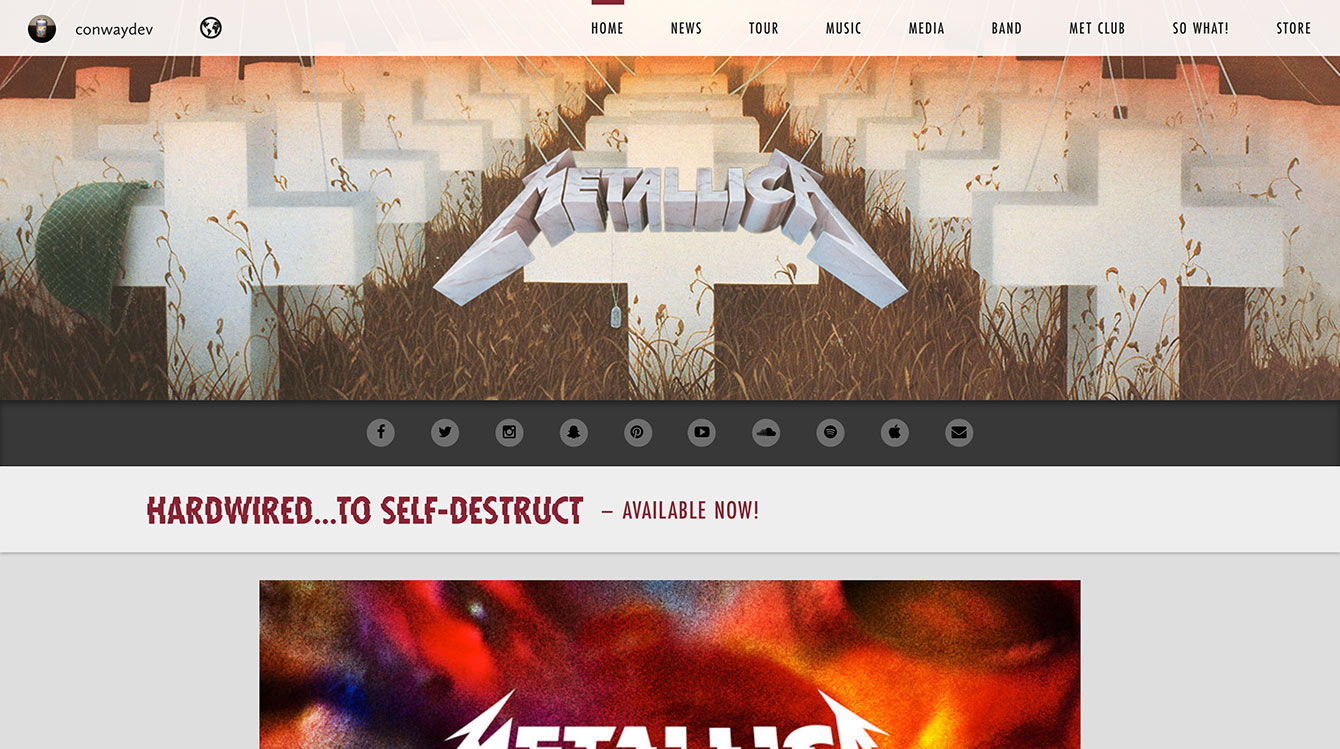
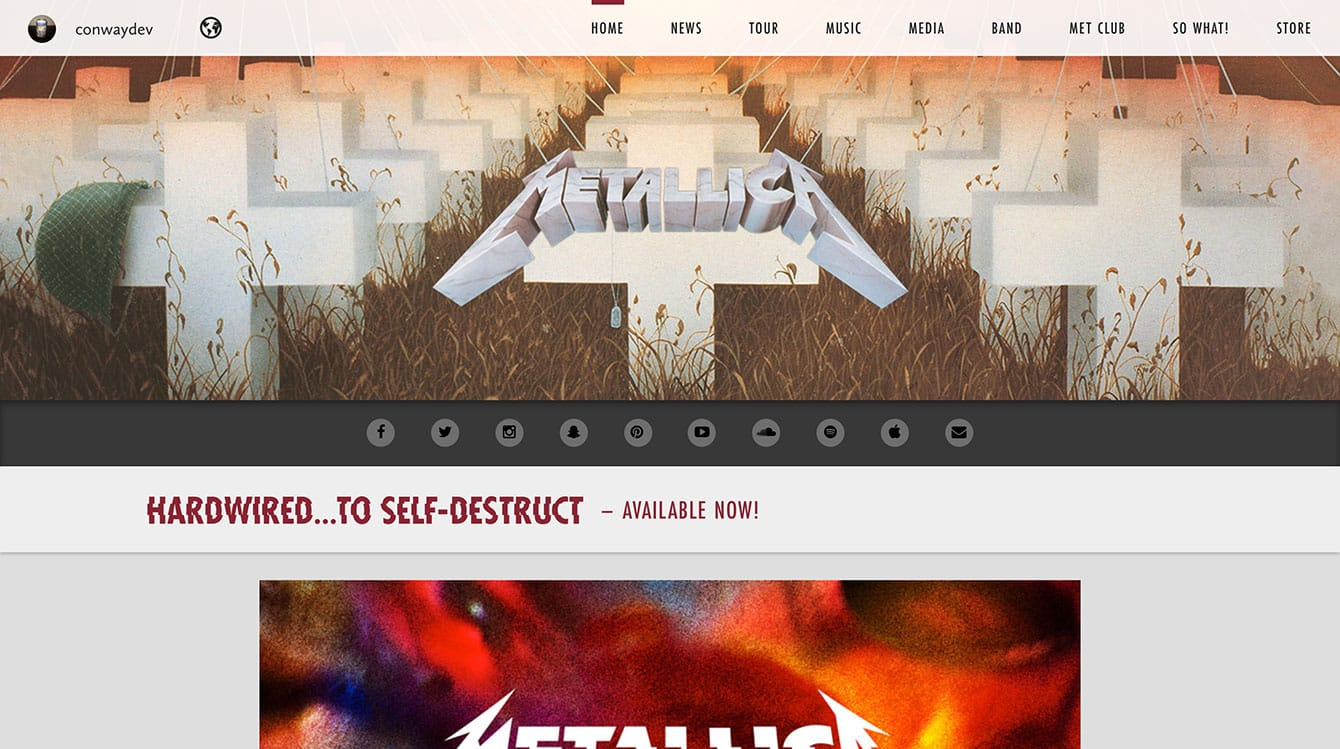
Optimize images and add back in includes

diff --git a/index.html b/index.html
@@ -41,11 +41,11 @@ layout: default
                 <h2>Metallica</h2>
 
                 <p>
-                    My last project I got to work on at StageBloc was Metallica's website, specifically creating patterns that we would use throughout the entire website. When working at StageBloc I had the opportunity to work on many large-scale projects, but Metallica was easily the largest.
+                    My last project I got to work on at StageBloc was Metallica's website, specifically creating components that we would use throughout the entire website. While working at StageBloc I had the opportunity to work on many large-scale projects, but Metallica was easily the largest.
                 </p>
 
                 <p>
-                    Before we started the project we realized that creating a pattern library was a necessity in order to make sure that the website could remain consistent in design. It was our first time creating a pattern library for a theme, but ended up proving very beneficial, not just for the scalability for development, but also making it easier to work with our designer and stakeholders.
+                    Before we started the project we realized that creating a components library was a necessity in order to make sure that the website could remain consistent in design. It was our first time creating a components library for a theme, but ended up proving very beneficial, not just for the scalability for development, but also making it easier to work with our designer and stakeholders.
                 </p>
 
                 <p>
@@ -63,11 +63,7 @@ layout: default
                 <h2>Sprout Social Insights</h2>
 
                 <p>
-                    Insights is the <a href="//sproutsocial.com/insights/">Sprout Social WordPress blog</a> where content creators are able to share industry knowledge of Social Media as well as product announcements for the platform. Insights had been around for years before I started at Sprout Social, and like many WordPress sites had gone through a lot of iterations within the same theme. When talks of a redesign came around I was quick to make a case for a complete redevelopment of the theme. I wanted to make sure that we could create a WordPress theme that would be maintainable by several developers, as well as performance optimized for readers.
-                </p>
-
-                <p>
-                    When the development was wrapped up we ran performance metrics and saw that the redevelopment was able to reduce the page load for the blog index from an average of 3-5 seconds to <strong>100 milliseconds</strong>. The redevelopment reduced the network requests by <strong>65%</strong>, and reduced the page, stylesheet, and script sizes dramatically. The performance benefit, along with better SEO practices showed a substantial benefit as far as our Google crawls were concerned and an overwhelming praise from our readers.
+                    Insights is the <a href="//sproutsocial.com/insights/" target="_blank" rel="noreferrer">Sprout Social WordPress blog</a> where content creators are able to share industry knowledge of Social Media as well as product announcements for the platform. Insights had been around for years before I started at Sprout Social, and like many WordPress sites had gone through a lot of iterations within the same theme. When talks of a redesign came around I was quick to make a case for a complete redevelopment of the theme. I wanted to make sure that we could create a WordPress theme that would be maintainable by several developers, as well as performance optimized for readers. The end result was a significant improvement in code quality, maintainability, as well as overall web performance.
                 </p>
 
                 <p>

diff --git a/_includes/footer.html b/_includes/footer.html
@@ -1,0 +1,52 @@
+<footer class="footer" role="contentinfo">
+    <div class="wrapper">
+        <div class="footer__info">
+            <div class="row row--center">
+                <div class="column column--split">
+                    <p class="footer__copy">
+                        &copy; {{ site.time | date: '%Y' }} Justin Conway
+                    </p>
+                </div>
+
+                <div class="column column--split">
+                    <div class="footer__social">
+                        <a href="https://twitter.com/conwaydev" target="_blank" rel="noreferrer">
+                            <svg>
+                                <title>Twitter</title>
+                                <use xlink:href="#twitter"></use>
+                            </svg>
+                        </a>
+
+                        <a href="https://github.com/conwaydev/" target="_blank" rel="noreferrer">
+                            <svg>
+                                <title>GitHub</title>
+                                <use xlink:href="#github"></use>
+                            </svg>
+                        </a>
+
+                        <a href="http://codepen.io/conwaydev/" target="_blank" rel="noreferrer">
+                            <svg>
+                                <title>CodePen</title>
+                                <use xlink:href="#codepen"></use>
+                            </svg>
+                        </a>
+
+                        <a href="https://www.linkedin.com/in/justin-conway-a2260a94" target="_blank" rel="noreferrer">
+                            <svg>
+                                <title>LinkedIn</title>
+                                <use xlink:href="#linkedin"></use>
+                            </svg>
+                        </a>
+
+                        <a href="mailto:justin@conwaydev.com" title="Email" target="_blank" rel="noreferrer">
+                            <svg>
+                                <title>Email Justin Conway</title>
+                                <use xlink:href="#message"></use>
+                            </svg>
+                        </a>
+                    </div>
+                </div>
+            </div>
+        </div>
+    </div>
+</footer>

diff --git a/_includes/head.html b/_includes/head.html
@@ -1,0 +1,10 @@
+<head>
+    <meta charset="utf-8">
+    <meta http-equiv="X-UA-Compatible" content="IE=edge">
+    <meta name="viewport" content="width=device-width, initial-scale=1">
+    <title>{% if page.title %}{{ page.title | escape }}{% else %}{{ site.title | escape }}{% endif %}</title>
+    <meta name="description" content="{% if page.excerpt %}{{ page.excerpt | strip_html | strip_newlines | truncate: 160 }}{% else %}{{ site.description }}{% endif %}">
+    <link rel="shortcut icon" href="/assets/favicon.ico" type="image/x-icon" />
+    <link rel="canonical" href="{{ page.url | replace:'index.html','' | prepend: site.baseurl | prepend: site.url }}">
+    <style>{% include css/main.css %}</style>
+</head>

diff --git a/_includes/header.html b/_includes/header.html
@@ -1,0 +1,18 @@
+<div style="display: none;">{% include svg/symbol/svg/sprite.symbol.svg %}</div>
+
+<header class="header" role="banner">
+    <div class="wrapper">
+        <div class="row">
+            <div class="column">
+                <a class="header__title" href="{{ site.baseurl }}">
+                    <svg>
+                        <title>Justin Conway</title>
+                        <use xlink:href="#logo"></use>
+                    </svg>
+
+                    Justin Conway • Chicago-based Front End Developer
+                </a>
+            </div>
+        </div>
+    </div>
+</header>
